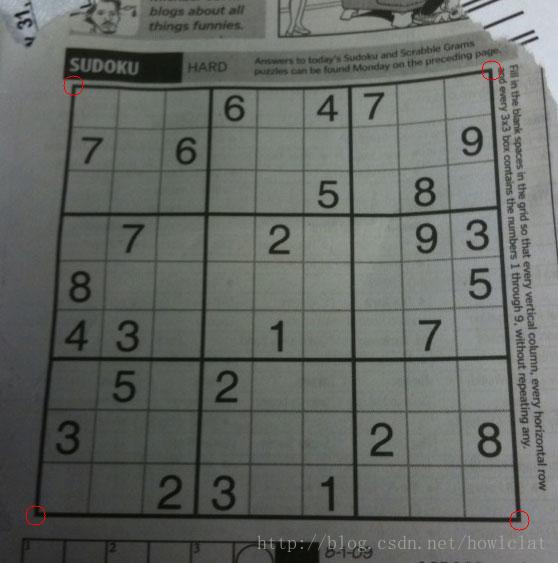
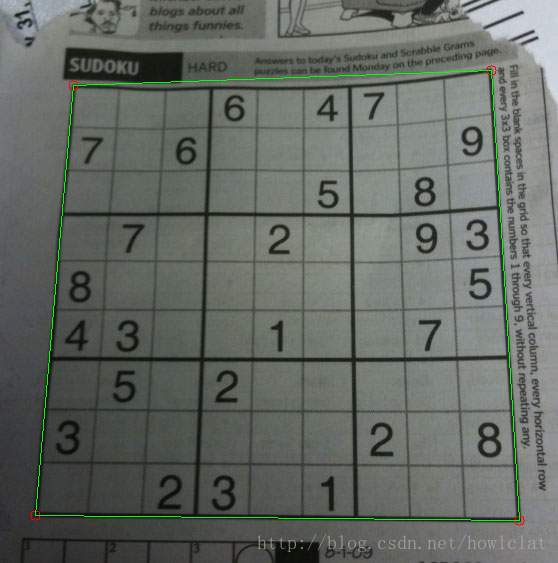
ansFromImg

diff --git a/Sudoku.js b/Sudoku.js
@@ -1,4 +1,3 @@
-const { Size, KMEANS_PP_CENTERS, Point2, Vec3, Contour, Point, imwrite } = require('opencv4nodejs');
 const cv = require('opencv4nodejs');
 
 class Sudoku {
@@ -47,8 +46,8 @@ class Sudoku {
         let result = cv.imread(imagePath);
         let image = cv.imread(imagePath);
         image = image.cvtColor(cv.COLOR_BGR2GRAY);
-        image = image.gaussianBlur(new Size(5, 5), 0)
-        image = image.dilate(cv.getStructuringElement(cv.MORPH_RECT, new Size(3, 3)));
+        image = image.gaussianBlur(new cv.Size(5, 5), 0)
+        image = image.dilate(cv.getStructuringElement(cv.MORPH_RECT, new cv.Size(3, 3)));
         image = image.canny(30, 120, 3);
 
         cv.imwrite('1.png', image);
@@ -66,25 +65,27 @@ class Sudoku {
                 }
             }
         }
-        for (let peak of docCnt) {
-            result.drawCircle(peak, 10, new Vec3(0, 0, 255));
-        }
 
-        cv.imwrite('2.png', result);
+        // for (let peak of docCnt) {
+        //     result.drawCircle(peak, 5, new Vec3(0, 0, 255));
+        // }
+        // result.drawLine(docCnt[0], docCnt[1], new Vec3(0, 255, 0));
+        // result.drawLine(docCnt[1], docCnt[2], new Vec3(0, 255, 0));
+        // result.drawLine(docCnt[2], docCnt[3], new Vec3(0, 255, 0));
+        // result.drawLine(docCnt[3], docCnt[0], new Vec3(0, 255, 0));
+        // cv.imwrite('2.png', result);
 
-
-        // src = np.float32([[207, 151], [517, 285], [17, 601], [343, 731]])
-        // dst = np.float32([[0, 0], [337, 0], [0, 488], [337, 488]])
+        const size = 300;
         const dst = [
-            new Point2(0, 0), 
-            new Point2(300, 0), 
-            new Point2(0, 300), 
-            new Point2(300, 300)
+            new cv.Point2(size, 0), 
+            new cv.Point2(0, 0), 
+            new cv.Point2(0, size), 
+            new cv.Point2(size, size)
         ];
         const m = cv.getPerspectiveTransform(docCnt, dst);
-        result = result.warpPerspective(m, new Size(300, 300));
+        result = result.warpPerspective(m, new cv.Size(size, size));
 
-        imwrite('result.png', result);
+        cv.imwrite('3.png', result);
     }
     static resize(list, l) {
         let result = [];
